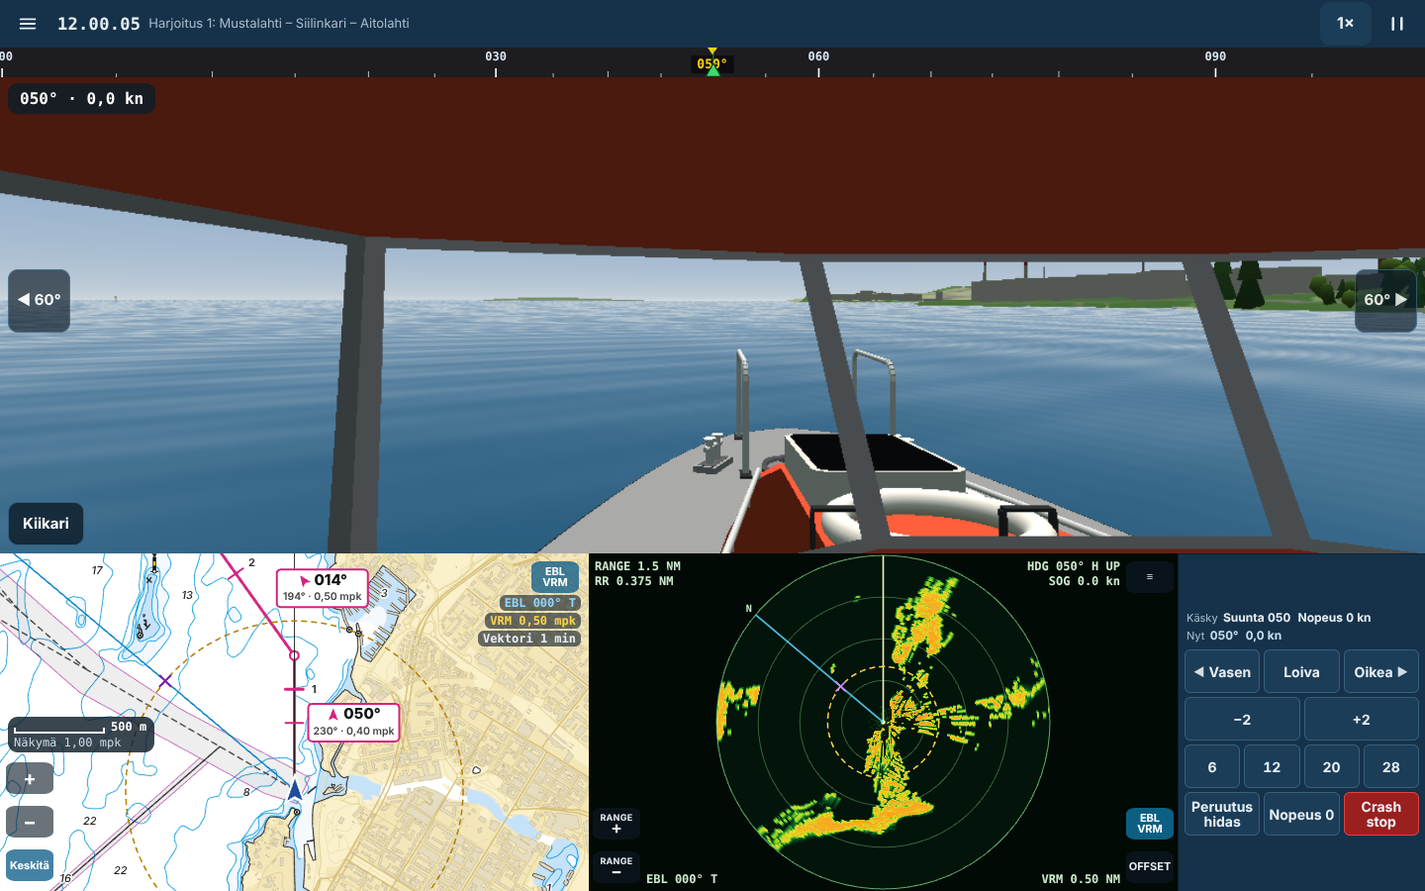
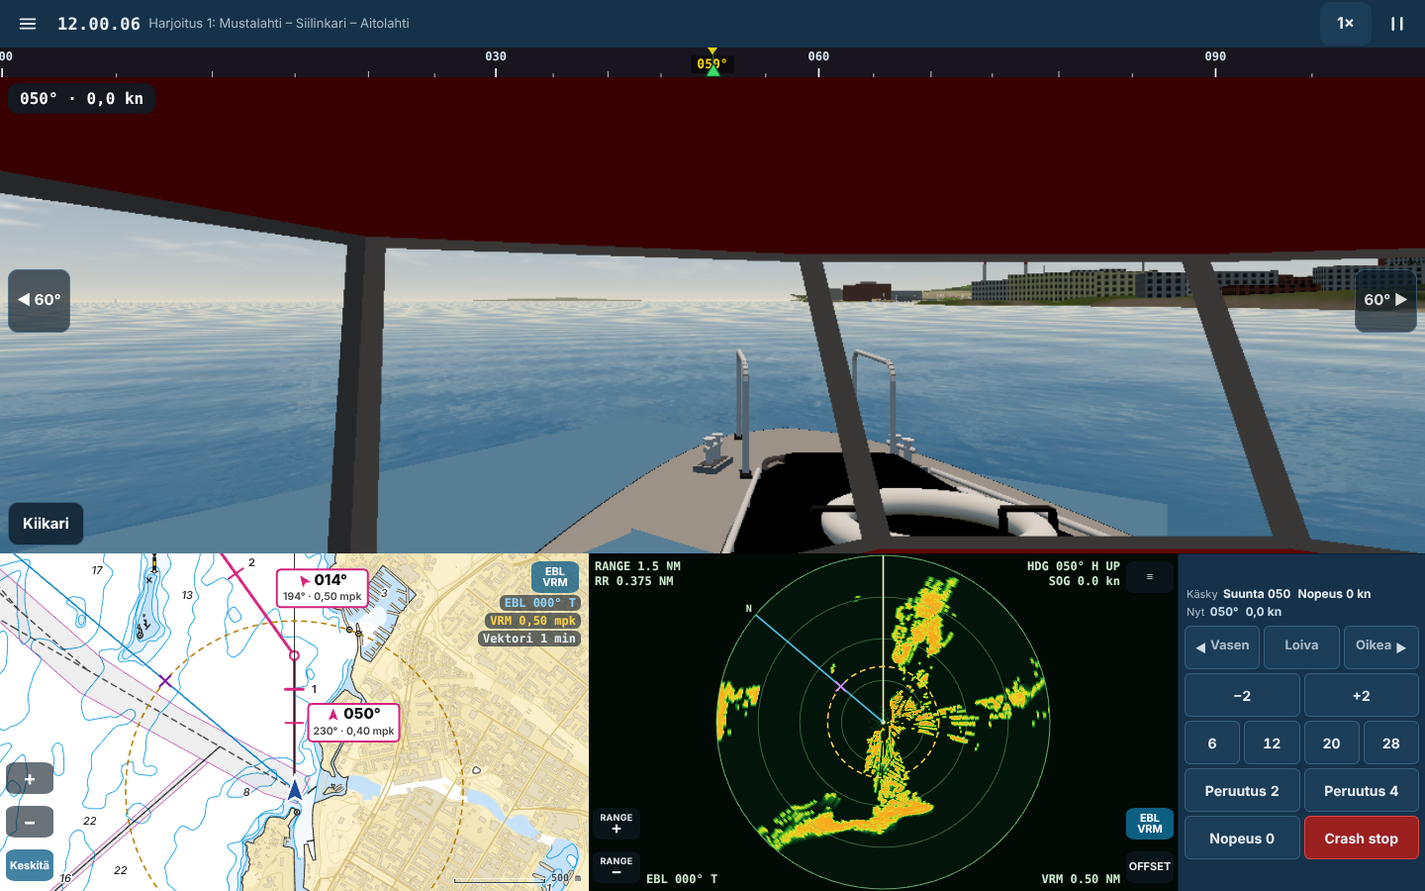
Tila paremmin käyttöön iPadilla ja iPhonella: koko näyttö, komentopalstan sovitus, pieni mittakaavajana
- Valikkoon Koko näyttö (Fullscreen API: työpöytä, Android, iPad). iPhonelle ohje Lisää Koti-valikkoon, ja manifesti ja apple-meta-tagit avaavat sivun koti-valikosta ilman selaimen palkkeja.
- Komentopalsta sovitetaan matalaan ikkunaan (iPad Safari välilehtipalkin kanssa leikkasi alimman rivin): ensin nopeusrivi yhdeksi riviksi ja palsta 270 px, sitten 36 px napit.
- Plotterin mittakaavajana pieneksi oikeaan alakulmaan ilman laatikkoa.
- Google-tilassa lähdemerkintä vain vasemman alakulman lovessa, ei koko leveyden kaistana, ja Kiikari-nappi sen yläpuolella.
- Testi kayttoliittyma_3h_pw.py päivitetty (mittakaavajana oikeassa alakulmassa, tiivistetty palsta).

Claude-Session: https://claude.ai/code/session_013iXVN91tLjvLopyHfFczv2

diff --git a/simulaattori.html b/simulaattori.html
@@ -16,6 +16,10 @@
 <meta charset="utf-8">
 <meta name="viewport" content="width=device-width, initial-scale=1, viewport-fit=cover, user-scalable=no">
 <meta name="apple-mobile-web-app-capable" content="yes">
+<meta name="mobile-web-app-capable" content="yes">
+<meta name="apple-mobile-web-app-status-bar-style" content="black-translucent">
+<meta name="apple-mobile-web-app-title" content="Simulaattori">
+<link rel="manifest" href="simulaattori.webmanifest">
 <meta name="theme-color" content="#15324a">
 <title>Simulaattori</title>
 <style>
@@ -80,10 +84,10 @@ input[type=time]{margin-top:8px;min-height:48px;font-size:18px;padding:6px 10px;
 .hud-zoom button:active{background-color:rgba(15,127,179,.9)}
 .hud-zoom button.zm-ctr[aria-pressed=true]{background-color:rgba(15,95,138,.78)}
 .hud-zoom button.zm-ctr[aria-pressed=false]{background-color:rgba(138,90,0,.85);color:#fff}
-.hud-scale{left:8px;bottom:140px;padding:3px 8px 3px 6px;font:600 12px ui-monospace,Menlo,Consolas,monospace;pointer-events:none;display:flex;flex-direction:column;gap:2px}
+.hud-scale{right:8px;bottom:8px;left:auto;padding:0;background:none!important;border:0!important;box-shadow:none!important;font:600 10px ui-monospace,Menlo,Consolas,monospace;color:#1d2b36;text-shadow:0 0 2px #fff,0 0 3px #fff;pointer-events:none;display:flex;flex-direction:column;align-items:flex-end;gap:1px;opacity:.85}  /* 27.10.2026: pieni ja kulmassa, ei laatikkoa */
 .hud-scale .sb-line{display:flex;align-items:flex-end;gap:6px}
-.hud-scale .sb-bar{display:block;height:6px;border:2px solid #fff;border-top:0;min-width:2px}
-.hud-scale .sb-h{color:#c8d9e6;font-weight:500}
+.hud-scale .sb-bar{display:block;height:4px;border:1.5px solid #1d2b36;border-top:0;min-width:2px;box-shadow:0 0 0 1px rgba(255,255,255,.7)}
+.hud-scale .sb-h{display:none}
 .hud-hdg{left:8px;top:8px;font:600 16px ui-monospace,Menlo,monospace;padding:6px 12px}
 .hud-gaze{right:8px;bottom:8px;min-height:44px;padding:4px 12px;border:1px solid var(--line);font-weight:600}
 #plotOff{position:absolute;inset:0;z-index:25;background:#0b141c;display:flex;flex-direction:column;align-items:center;justify-content:center;gap:10px;font-size:20px;font-weight:600}
@@ -132,6 +136,13 @@ input[type=time]{margin-top:8px;min-height:48px;font-size:18px;padding:6px 10px;
 #game.deck:not(.tp) #bSlower,#game.deck:not(.tp) #bFaster{grid-column:span 2}
 #game.deck:not(.tp) #bSlower{order:1}#game.deck:not(.tp) #bFaster{order:2}#game.deck:not(.tp) .cb.sp{order:3}
 #game.deck.tp .row.r6{grid-template-columns:repeat(6,1fr)}
+/* komentopalstan sovitus matalalla näytöllä (sim.js fitCmd) */
+#game.deck.cfit1:not(.tp){--cmdw:270px}
+#game.deck.cfit1:not(.tp) .row.r6,#game.land.cfit1 .row.r6{grid-template-columns:.8fr 1fr 1fr 1fr 1fr .8fr}
+#game.deck.cfit1:not(.tp) #bSlower,#game.deck.cfit1:not(.tp) #bFaster,#game.land.cfit1 #bSlower,#game.land.cfit1 #bFaster{grid-column:auto}
+#game.deck.cfit1:not(.tp) #bSlower,#game.land.cfit1 #bSlower{order:0}#game.deck.cfit1:not(.tp) .cb.sp,#game.land.cfit1 .cb.sp{order:1}#game.deck.cfit1:not(.tp) #bFaster,#game.land.cfit1 #bFaster{order:2}
+#game.cfit1 .row.r6 .cb{padding:2px 1px}
+#game.cfit2 .cb{min-height:36px}#game.cfit2 .row{margin-top:3px;gap:3px}#game.cfit2 .status{font-size:11px;line-height:1.15}#game.cfit2 #cmd{padding-top:4px}
 #game.deck .pane{border:0;border-radius:0;aspect-ratio:auto;box-shadow:none}
 #game.deck #pane3d{left:0;right:0;top:0;bottom:auto;width:auto;height:60%}
 #game.deck #paneP,#game.deck #paneR{top:60%;bottom:0;height:auto;left:0;right:auto;width:calc(100% - var(--cmdw))}
@@ -210,6 +221,9 @@ input[type=date]{margin-top:8px;min-height:48px;font-size:18px;padding:6px 10px;
 .pane.small .g3d-badge{display:none}
 #g3dInfo .sheet-box{display:flex;flex-direction:column;gap:8px}
 #g3dInfo .hint{white-space:pre-line}
+
+/* Google-tila: Googlen lähdemerkintä (vasen alakulma) jää näkyviin, ja Kiikari-nappi nostetaan sen yläpuolelle (27.10.2026) */
+#pane3d.g3d .bino{bottom:34px}
 
 </style>
 </head>
@@ -408,6 +422,8 @@ input[type=date]{margin-top:8px;min-height:48px;font-size:18px;padding:6px 10px;
     <button type="button" class="big" id="mTune">Tutkan viritys: hyvä</button>
     <button type="button" class="big" id="mGfx">Grafiikka: täysi</button>
     <button type="button" class="big" id="mView">Ulkonäkymä: oma</button>
+    <button type="button" class="big" id="mFull">Koko näyttö</button>
+    <div class="hint" id="fullHint" hidden>iPhonessa selaimen palkit saa pois avaamalla sivun kotivalikosta: Jaa ja sitten Lisää Koti-valikkoon. Kotivalikosta avattuna simulaattori aukeaa koko näytölle.</div>
     <button type="button" class="big" id="mVis">Näkyvyys (Google 3D): ei sumukerrosta</button>
     <button type="button" class="big" id="mHelp">Näppäimet</button>
     <button type="button" class="big" id="mClose">Sulje</button>
@@ -10114,7 +10130,8 @@ function shade(col, f) { return [Math.min(1, col[0] * f), Math.min(1, col[1] * f
     keyStore: 'sim.googleKey',
     altStore: 'sim.googleAltOffset',
     calibStore: 'sim.googleKalib',
-    attribClipPx: 24,         // oman kankaan alareunasta rajataan tämän verran pois, jotta Googlen lähdemerkintä (logo ja tietolähteet) jää näkyviin
+    attribClipPx: 26, attribClipW: 170,   // vain vasemman alakulman lovi (logo ja tietolähteet), ei koko alareunan kaistaa (27.10.2026)
+    attribClipPxOld: 24,         // oman kankaan alareunasta rajataan tämän verran pois, jotta Googlen lähdemerkintä (logo ja tietolähteet) jää näkyviin
     fogLevelsKm: [0, 20, 10, 5, 2, 1]   // sumukerroksen näkyvyys (km), 0 = ei sumukerrosta
   };
 
@@ -12508,8 +12525,20 @@ function shade(col, f) { return [Math.min(1, col[0] * f), Math.min(1, col[1] * f
     var tp = deck && !land;
     g.classList.toggle('land', land && !deck); g.classList.toggle('deck', deck); g.classList.toggle('tp', tp);
     G.layout.land = land; G.layout.wide = deck; G.layout.tp = tp; G.layout.tri = false;
+    fitCmd();
     applyPanes();
     sizeViews();
+  }
+  // Komentopalstan sovitus (27.10.2026, iPad Safari välilehtipalkin kanssa: alin rivi leikkautui): jos napit eivät mahdu palstaan,
+  // ensin nopeusrivi yhdeksi riviksi ja palsta 20 px leveämmäksi (cfit1), sitten matalammat napit (cfit2). Vieritys jää viimeiseksi varaksi.
+  function fitCmd() {
+    var g = $('game'), cm = $('cmd');
+    g.classList.remove('cfit1', 'cfit2');
+    if (!(G.layout.wide && !G.layout.tp) && !G.layout.land) return;
+    var over = function () { return cm.scrollHeight > cm.clientHeight + 1; };
+    if (!over()) return;
+    g.classList.add('cfit1');
+    if (over()) g.classList.add('cfit2');
   }
   // Mittarin tila: aloitusvalinta rajaa vaihtoehdot. Kolme ruutua (both) kelpaa vain, kun leveys riittää.
   function resolveInstr() {
@@ -12872,6 +12901,23 @@ function shade(col, f) { return [Math.min(1, col[0] * f), Math.min(1, col[1] * f
       var k = root.Google3D.setKey($('g3dKeyIn').value); updateKeyHint();
       if (!k) return; $('g3dInfo').hidden = true; setExtView(true);
     });
+    // Koko näyttö (27.10.2026): Fullscreen API, kun selain tukee sitä (tietokone, Android, iPad). iPhonessa ohje kotivalikkoon lisäämisestä.
+    (function () {
+      var de = document.documentElement, req = de.requestFullscreen || de.webkitRequestFullscreen, can = !!req;
+      var standalone = (root.matchMedia && root.matchMedia('(display-mode: standalone)').matches) || root.navigator.standalone;
+      if (!can || standalone) { $('mFull').hidden = !!standalone; if (!can && !standalone) { $('mFull').hidden = true; $('fullHint').hidden = false; } }
+      function isFull() { return !!(document.fullscreenElement || document.webkitFullscreenElement); }
+      function label() { $('mFull').textContent = isFull() ? 'Poistu koko näytöstä' : 'Koko näyttö'; }
+      $('mFull').addEventListener('click', function () {
+        $('menu').hidden = true;
+        try {
+          if (isFull()) { (document.exitFullscreen || document.webkitExitFullscreen).call(document); }
+          else { var r = req.call(de); if (r && r.catch) r.catch(function () { toast('Koko näyttö ei onnistunut tässä selaimessa', 2000); }); }
+        } catch (e) { toast('Koko näyttö ei onnistunut tässä selaimessa', 2000); }
+      });
+      document.addEventListener('fullscreenchange', function () { label(); setTimeout(function () { applyPanes(); sizeViews(); }, 120); });
+      document.addEventListener('webkitfullscreenchange', function () { label(); setTimeout(function () { applyPanes(); sizeViews(); }, 120); });
+    })();
     $('mGfx').addEventListener('click', function () { G.gfx = gfxNow() === 'full' ? 'light' : 'full'; G.view.setQuality(G.gfx); applyBoatsQuality(); updateMenuLabels(); savePrefs(); });
     $('mRaster').addEventListener('click', function () { G.raster = !G.raster; G.pl.setRasterVisible(G.raster); updateMenuLabels(); savePrefs(); });
     $('mFov').addEventListener('click', function () {
@@ -13064,13 +13110,13 @@ function shade(col, f) { return [Math.min(1, col[0] * f), Math.min(1, col[1] * f
       if (!r.ok) { G.ext = 'own'; g3Info('Google 3D (testi) tarvitsee avaimen', 'Google 3D -näkymä näyttää Googlen fotorealistisen 3D-kartan oman näkymän tilalla. Se tarvitsee oman Google Maps -avaimen.\n\n' + root.Google3D.HELP_LINES.join('\n'), true); return false; }
       // vaihe 3n: oma kangas pysyy näkyvissä Googlen kartan päällä (läpinäkyvä tausta), ja Googlen lisenssimerkinnän kohta alareunassa jää vapaaksi
       G.view.setCalib(root.Google3D.getCalib()); G.view.setFogKm(G.fogKm); G.view.setOverlay(true);
-      $('v3').classList.add('g3d-over'); canvas.style.clipPath = 'inset(0 0 ' + root.Google3D.SETTINGS.attribClipPx + 'px 0)';
+      $('v3').classList.add('g3d-over'); var gS = root.Google3D.SETTINGS; canvas.style.clipPath = 'polygon(0 0, 100% 0, 100% 100%, ' + gS.attribClipW + 'px 100%, ' + gS.attribClipW + 'px calc(100% - ' + gS.attribClipPx + 'px), 0 calc(100% - ' + gS.attribClipPx + 'px))'; $('pane3d').classList.add('g3d');
       if (G.S) logCustom('google3d', 1);
     } else {
       if (G.g3) G.g3.disable();
       G.ext = 'own'; if (canvas) { canvas.style.visibility = ''; canvas.style.clipPath = ''; G.view.veil.style.visibility = ''; }
       if (G.view) G.view.setOverlay(false);
-      $('v3').classList.remove('g3d-over');
+      $('v3').classList.remove('g3d-over'); $('pane3d').classList.remove('g3d');
       $('g3dBadge').hidden = true;
     }
     updateMenuLabels();

diff --git a/lahdekoodi/simulaattori/js/sim.js b/lahdekoodi/simulaattori/js/sim.js
@@ -315,8 +315,20 @@
     var tp = deck && !land;
     g.classList.toggle('land', land && !deck); g.classList.toggle('deck', deck); g.classList.toggle('tp', tp);
     G.layout.land = land; G.layout.wide = deck; G.layout.tp = tp; G.layout.tri = false;
+    fitCmd();
     applyPanes();
     sizeViews();
+  }
+  // Komentopalstan sovitus (27.10.2026, iPad Safari välilehtipalkin kanssa: alin rivi leikkautui): jos napit eivät mahdu palstaan,
+  // ensin nopeusrivi yhdeksi riviksi ja palsta 20 px leveämmäksi (cfit1), sitten matalammat napit (cfit2). Vieritys jää viimeiseksi varaksi.
+  function fitCmd() {
+    var g = $('game'), cm = $('cmd');
+    g.classList.remove('cfit1', 'cfit2');
+    if (!(G.layout.wide && !G.layout.tp) && !G.layout.land) return;
+    var over = function () { return cm.scrollHeight > cm.clientHeight + 1; };
+    if (!over()) return;
+    g.classList.add('cfit1');
+    if (over()) g.classList.add('cfit2');
   }
   // Mittarin tila: aloitusvalinta rajaa vaihtoehdot. Kolme ruutua (both) kelpaa vain, kun leveys riittää.
   function resolveInstr() {
@@ -679,6 +691,23 @@
       var k = root.Google3D.setKey($('g3dKeyIn').value); updateKeyHint();
       if (!k) return; $('g3dInfo').hidden = true; setExtView(true);
     });
+    // Koko näyttö (27.10.2026): Fullscreen API, kun selain tukee sitä (tietokone, Android, iPad). iPhonessa ohje kotivalikkoon lisäämisestä.
+    (function () {
+      var de = document.documentElement, req = de.requestFullscreen || de.webkitRequestFullscreen, can = !!req;
+      var standalone = (root.matchMedia && root.matchMedia('(display-mode: standalone)').matches) || root.navigator.standalone;
+      if (!can || standalone) { $('mFull').hidden = !!standalone; if (!can && !standalone) { $('mFull').hidden = true; $('fullHint').hidden = false; } }
+      function isFull() { return !!(document.fullscreenElement || document.webkitFullscreenElement); }
+      function label() { $('mFull').textContent = isFull() ? 'Poistu koko näytöstä' : 'Koko näyttö'; }
+      $('mFull').addEventListener('click', function () {
+        $('menu').hidden = true;
+        try {
+          if (isFull()) { (document.exitFullscreen || document.webkitExitFullscreen).call(document); }
+          else { var r = req.call(de); if (r && r.catch) r.catch(function () { toast('Koko näyttö ei onnistunut tässä selaimessa', 2000); }); }
+        } catch (e) { toast('Koko näyttö ei onnistunut tässä selaimessa', 2000); }
+      });
+      document.addEventListener('fullscreenchange', function () { label(); setTimeout(function () { applyPanes(); sizeViews(); }, 120); });
+      document.addEventListener('webkitfullscreenchange', function () { label(); setTimeout(function () { applyPanes(); sizeViews(); }, 120); });
+    })();
     $('mGfx').addEventListener('click', function () { G.gfx = gfxNow() === 'full' ? 'light' : 'full'; G.view.setQuality(G.gfx); applyBoatsQuality(); updateMenuLabels(); savePrefs(); });
     $('mRaster').addEventListener('click', function () { G.raster = !G.raster; G.pl.setRasterVisible(G.raster); updateMenuLabels(); savePrefs(); });
     $('mFov').addEventListener('click', function () {
@@ -871,13 +900,13 @@
       if (!r.ok) { G.ext = 'own'; g3Info('Google 3D (testi) tarvitsee avaimen', 'Google 3D -näkymä näyttää Googlen fotorealistisen 3D-kartan oman näkymän tilalla. Se tarvitsee oman Google Maps -avaimen.\n\n' + root.Google3D.HELP_LINES.join('\n'), true); return false; }
       // vaihe 3n: oma kangas pysyy näkyvissä Googlen kartan päällä (läpinäkyvä tausta), ja Googlen lisenssimerkinnän kohta alareunassa jää vapaaksi
       G.view.setCalib(root.Google3D.getCalib()); G.view.setFogKm(G.fogKm); G.view.setOverlay(true);
-      $('v3').classList.add('g3d-over'); canvas.style.clipPath = 'inset(0 0 ' + root.Google3D.SETTINGS.attribClipPx + 'px 0)';
+      $('v3').classList.add('g3d-over'); var gS = root.Google3D.SETTINGS; canvas.style.clipPath = 'polygon(0 0, 100% 0, 100% 100%, ' + gS.attribClipW + 'px 100%, ' + gS.attribClipW + 'px calc(100% - ' + gS.attribClipPx + 'px), 0 calc(100% - ' + gS.attribClipPx + 'px))'; $('pane3d').classList.add('g3d');
       if (G.S) logCustom('google3d', 1);
     } else {
       if (G.g3) G.g3.disable();
       G.ext = 'own'; if (canvas) { canvas.style.visibility = ''; canvas.style.clipPath = ''; G.view.veil.style.visibility = ''; }
       if (G.view) G.view.setOverlay(false);
-      $('v3').classList.remove('g3d-over');
+      $('v3').classList.remove('g3d-over'); $('pane3d').classList.remove('g3d');
       $('g3dBadge').hidden = true;
     }
     updateMenuLabels();

diff --git a/lahdekoodi/simulaattori/css/sim.css b/lahdekoodi/simulaattori/css/sim.css
@@ -59,10 +59,10 @@ input[type=time]{margin-top:8px;min-height:48px;font-size:18px;padding:6px 10px;
 .hud-zoom button:active{background-color:rgba(15,127,179,.9)}
 .hud-zoom button.zm-ctr[aria-pressed=true]{background-color:rgba(15,95,138,.78)}
 .hud-zoom button.zm-ctr[aria-pressed=false]{background-color:rgba(138,90,0,.85);color:#fff}
-.hud-scale{left:8px;bottom:140px;padding:3px 8px 3px 6px;font:600 12px ui-monospace,Menlo,Consolas,monospace;pointer-events:none;display:flex;flex-direction:column;gap:2px}
-.hud-scale .sb-line{display:flex;align-items:flex-end;gap:6px}
-.hud-scale .sb-bar{display:block;height:6px;border:2px solid #fff;border-top:0;min-width:2px}
-.hud-scale .sb-h{color:#c8d9e6;font-weight:500}
+.hud-scale{right:8px;bottom:8px;left:auto;padding:0;background:none!important;border:0!important;box-shadow:none!important;font:600 10px ui-monospace,Menlo,Consolas,monospace;color:#1d2b36;text-shadow:0 0 2px #fff,0 0 3px #fff;pointer-events:none;display:flex;flex-direction:column;align-items:flex-end;gap:1px;opacity:.85}  /* 27.10.2026: pieni ja kulmassa, ei laatikkoa */
+.hud-scale .sb-line{display:flex;align-items:flex-end;gap:6px;white-space:nowrap}
+.hud-scale .sb-bar{display:block;height:4px;border:1.5px solid #1d2b36;border-top:0;min-width:2px;box-shadow:0 0 0 1px rgba(255,255,255,.7)}
+.hud-scale .sb-h{display:none}
 .hud-hdg{left:8px;top:8px;font:600 16px ui-monospace,Menlo,monospace;padding:6px 12px}
 .hud-gaze{right:8px;bottom:8px;min-height:44px;padding:4px 12px;border:1px solid var(--line);font-weight:600}
 #plotOff{position:absolute;inset:0;z-index:25;background:#0b141c;display:flex;flex-direction:column;align-items:center;justify-content:center;gap:10px;font-size:20px;font-weight:600}
@@ -111,6 +111,13 @@ input[type=time]{margin-top:8px;min-height:48px;font-size:18px;padding:6px 10px;
 #game.deck:not(.tp) #bSlower,#game.deck:not(.tp) #bFaster{grid-column:span 2}
 #game.deck:not(.tp) #bSlower{order:1}#game.deck:not(.tp) #bFaster{order:2}#game.deck:not(.tp) .cb.sp{order:3}
 #game.deck.tp .row.r6{grid-template-columns:repeat(6,1fr)}
+/* komentopalstan sovitus matalalla näytöllä (sim.js fitCmd) */
+#game.deck.cfit1:not(.tp){--cmdw:270px}
+#game.deck.cfit1:not(.tp) .row.r6,#game.land.cfit1 .row.r6{grid-template-columns:.8fr 1fr 1fr 1fr 1fr .8fr}
+#game.deck.cfit1:not(.tp) #bSlower,#game.deck.cfit1:not(.tp) #bFaster,#game.land.cfit1 #bSlower,#game.land.cfit1 #bFaster{grid-column:auto}
+#game.deck.cfit1:not(.tp) #bSlower,#game.land.cfit1 #bSlower{order:0}#game.deck.cfit1:not(.tp) .cb.sp,#game.land.cfit1 .cb.sp{order:1}#game.deck.cfit1:not(.tp) #bFaster,#game.land.cfit1 #bFaster{order:2}
+#game.cfit1 .row.r6 .cb{padding:2px 1px}
+#game.cfit2 .cb{min-height:36px}#game.cfit2 .row{margin-top:3px;gap:3px}#game.cfit2 .status{font-size:11px;line-height:1.15}#game.cfit2 #cmd{padding-top:4px}
 #game.deck .pane{border:0;border-radius:0;aspect-ratio:auto;box-shadow:none}
 #game.deck #pane3d{left:0;right:0;top:0;bottom:auto;width:auto;height:60%}
 #game.deck #paneP,#game.deck #paneR{top:60%;bottom:0;height:auto;left:0;right:auto;width:calc(100% - var(--cmdw))}
@@ -189,3 +196,6 @@ input[type=date]{margin-top:8px;min-height:48px;font-size:18px;padding:6px 10px;
 .pane.small .g3d-badge{display:none}
 #g3dInfo .sheet-box{display:flex;flex-direction:column;gap:8px}
 #g3dInfo .hint{white-space:pre-line}
+
+/* Google-tila: Googlen lähdemerkintä (vasen alakulma) jää näkyviin, ja Kiikari-nappi nostetaan sen yläpuolelle (27.10.2026) */
+#pane3d.g3d .bino{bottom:34px}

diff --git a/lahdekoodi/simulaattori.html b/lahdekoodi/simulaattori.html
@@ -16,6 +16,10 @@
 <meta charset="utf-8">
 <meta name="viewport" content="width=device-width, initial-scale=1, viewport-fit=cover, user-scalable=no">
 <meta name="apple-mobile-web-app-capable" content="yes">
+<meta name="mobile-web-app-capable" content="yes">
+<meta name="apple-mobile-web-app-status-bar-style" content="black-translucent">
+<meta name="apple-mobile-web-app-title" content="Simulaattori">
+<link rel="manifest" href="simulaattori.webmanifest">
 <meta name="theme-color" content="#15324a">
 <title>Simulaattori</title>
 <link rel="stylesheet" href="simulaattori/css/sim.css">
@@ -215,6 +219,8 @@
     <button type="button" class="big" id="mTune">Tutkan viritys: hyvä</button>
     <button type="button" class="big" id="mGfx">Grafiikka: täysi</button>
     <button type="button" class="big" id="mView">Ulkonäkymä: oma</button>
+    <button type="button" class="big" id="mFull">Koko näyttö</button>
+    <div class="hint" id="fullHint" hidden>iPhonessa selaimen palkit saa pois avaamalla sivun kotivalikosta: Jaa ja sitten Lisää Koti-valikkoon. Kotivalikosta avattuna simulaattori aukeaa koko näytölle.</div>
     <button type="button" class="big" id="mVis">Näkyvyys (Google 3D): ei sumukerrosta</button>
     <button type="button" class="big" id="mHelp">Näppäimet</button>
     <button type="button" class="big" id="mClose">Sulje</button>

diff --git a/lahdekoodi/simulaattori/js/google3d.js b/lahdekoodi/simulaattori/js/google3d.js
@@ -40,7 +40,8 @@
     keyStore: 'sim.googleKey',
     altStore: 'sim.googleAltOffset',
     calibStore: 'sim.googleKalib',
-    attribClipPx: 24,         // oman kankaan alareunasta rajataan tämän verran pois, jotta Googlen lähdemerkintä (logo ja tietolähteet) jää näkyviin
+    attribClipPx: 26, attribClipW: 170,   // vain vasemman alakulman lovi (logo ja tietolähteet), ei koko alareunan kaistaa (27.10.2026)
+    attribClipPxOld: 24,         // oman kankaan alareunasta rajataan tämän verran pois, jotta Googlen lähdemerkintä (logo ja tietolähteet) jää näkyviin
     fogLevelsKm: [0, 20, 10, 5, 2, 1]   // sumukerroksen näkyvyys (km), 0 = ei sumukerrosta
   };
 

diff --git a/lahdekoodi/simulaattori/testit/kayttoliittyma_3h_pw.py b/lahdekoodi/simulaattori/testit/kayttoliittyma_3h_pw.py
@@ -45,6 +45,7 @@ METRICS = r'''() => {
   const st = cm.querySelector('.status').getBoundingClientRect();
   out.cmd = { w: cm.getBoundingClientRect().width, h: cm.getBoundingClientRect().height, scrollH: cm.scrollHeight, clientH: cm.clientHeight, n: cb.length, status: { w: st.width, h: st.height },
     btn: cb.map(e => ({ id: lab(e), w: e.getBoundingClientRect().width, h: e.getBoundingClientRect().height, l: e.getBoundingClientRect().left, r: e.getBoundingClientRect().right, t: e.getBoundingClientRect().top, b: e.getBoundingClientRect().bottom })),
+    fit: ['cfit1', 'cfit2'].filter(k => document.getElementById('game').classList.contains(k)),
     rect: rc(cm), docScroll: document.documentElement.scrollHeight > innerHeight + 1 || document.documentElement.scrollWidth > innerWidth + 1 };
   return out;
 }'''
@@ -86,7 +87,9 @@ def check_plot(tag, m):
     z = q['zoom']; pn = q['pane']
     ok(z['l'] - pn['l'] < 8 and pn['b'] - z['b'] < 8, '%s: + − Keskitä pinottuna vasemmassa alakulmassa (reuna %.0f ja %.0f px)' % (tag, z['l'] - pn['l'], pn['b'] - z['b']))
     if q['scale']:
-        ok(q['scale']['b'] <= z['t'] + 1 and q['scale']['l'] - pn['l'] < 16, '%s: mittakaavajana vasemmassa alakulmassa nappien yläpuolella (jana alareuna %.0f, nappien yläreuna %.0f)' % (tag, q['scale']['b'], z['t']))
+        # 27.10.2026: mittakaavajana on pieni ja oikeassa alakulmassa (käyttäjän palaute: liian hallitseva)
+        sh = q['scale']['b'] - q['scale'].get('t', q['scale']['b'] - 20)
+        ok(pn['r'] - q['scale']['r'] < 16 and pn['b'] - q['scale']['b'] < 16 and sh <= 24, '%s: mittakaavajana pienenä oikeassa alakulmassa (oikea reuna %.0f, alareuna %.0f, korkeus %.0f px)' % (tag, pn['r'] - q['scale']['r'], pn['b'] - q['scale']['b'], sh))
     ok(q['vec'] is not None, '%s: vektorin aika on lukema, jota napautetaan (ei erillistä nappia)' % tag)
     if q['small']:
         bad = [b['id'] for b in q['btn'] if overlap(b['hit'], q['small'])] + (['lukemat'] if overlap(q['info'], q['small']) else [])
@@ -94,15 +97,20 @@ def check_plot(tag, m):
 
 def check_cmd(tag, m, wide):
     c = m['cmd']
+    fit = c.get('fit', [])
+    # 27.10.2026: matalalla näytöllä (iPad Safari välilehtipalkin kanssa) palsta tiivistyy: cfit1 = nopeusrivi yhdeksi riviksi ja palsta 270 px, cfit2 = napit 36 px
+    wmax = 270.5 if 'cfit1' in fit else 250.5
+    hmin = 35.5 if 'cfit2' in fit else 43.5
+    if fit: print('      komentopalstan sovitus: %s' % ' '.join(fit))
     if wide:
-        ok(c['w'] <= 250.5, '%s: komentopalstan leveys %.0f px (enintään 250)' % (tag, c['w']))
+        ok(c['w'] <= wmax, '%s: komentopalstan leveys %.0f px (enintään %.0f)' % (tag, c['w'], wmax))
     sizes = sorted(set((round(b['w']), round(b['h'])) for b in c['btn']))
-    ok(all(43.5 <= b['h'] <= 48.5 for b in c['btn']), '%s: komentonappien korkeus %s px (44 ... 48), nappeja %d' % (tag, sorted(set(round(b['h']) for b in c['btn'])), c['n']))
+    ok(all(hmin <= b['h'] <= 48.5 for b in c['btn']), '%s: komentonappien korkeus %s px (%.0f ... 48), nappeja %d' % (tag, sorted(set(round(b['h']) for b in c['btn'])), hmin, c['n']))
     ok(c['scrollH'] <= c['clientH'] + 1 and not c['docScroll'], '%s: komentopalstassa ei vieritystä (sisältö %d, ikkuna %d px)' % (tag, c['scrollH'], c['clientH']))
     if wide:
         rows = {}
         for b in c['btn']: rows.setdefault(round(b['t'] / 6), []).append(b['id'])
-        ok(len(rows) == 5, '%s: nappeja viidellä rivillä, vaihe 3k: erikoiskäskyt Peruutus 2, Peruutus 4, Nopeus 0 ja Crash stop 2 x 2 (%s)' % (tag, [len(v) for k, v in sorted(rows.items())]))
+        ok(len(rows) == (4 if 'cfit1' in fit else 5), '%s: nappeja viidellä rivillä (tiivistettynä neljällä), vaihe 3k: erikoiskäskyt Peruutus 2, Peruutus 4, Nopeus 0 ja Crash stop 2 x 2 (%s)' % (tag, [len(v) for k, v in sorted(rows.items())]))
 
 with sync_playwright() as pw:
     for cfg in configs:
